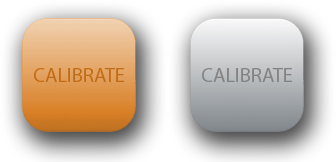
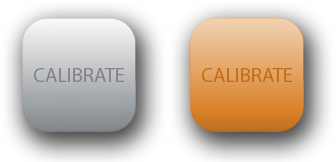
Fixed states with toggle buttons

diff --git a/Manucapture/editor/src/ContentGUI.java b/Manucapture/editor/src/ContentGUI.java
@@ -32,9 +32,7 @@ public class ContentGUI {
 	PImage zoomImg = null;
 	float rightImageScale = 1.0f;
 	float leftImageScale = 1.0f;
-	
-	// TODO: calculate base zoom for Canon 5DSR
-	float baseZoom = 2f; // For Canon 700D 5200/1000
+	float baseZoom = 2f; 
 	
 	public ContentGUI(ManuCapture_v1_1 context){
 		this.context = context;
@@ -294,7 +292,7 @@ public class ContentGUI {
 				context.rect(0, 0, wImageViewerSize, hImageViewerSize);
 				context.fill(255);
 				context.textSize(24);
-				context.text(msg, wImageViewerSize / 2, 50);
+				context.text(msg, wImageViewerSize / 2, 150);
 				context.popMatrix();
 				context.popStyle();
 			} else if (context.chartStateMachine == 3) {
@@ -315,11 +313,9 @@ public class ContentGUI {
 				context.rect(0, imageMarginTop, wImageViewerSize * 2 + 100, hImageViewerSize);
 				context.textSize(24);
 				context.textAlign(context.CENTER);
-				context.fill(255, 255, 0);
-				String cad = context.msg("sw.calibration2");
-				context.text(cad, wImageViewerSize / 2 - 1, 200 - 1);
 				context.fill(255);
-				context.text(cad, wImageViewerSize / 2, 200);
+				String cad = context.msg("sw.calibration2");
+				context.text(cad, wImageViewerSize / 2 + leftImageMarginLeft, 150);
 				context.popMatrix();
 				context.popStyle();
 			}
@@ -396,7 +392,13 @@ public class ContentGUI {
 				}
 			}
 		}
-		else {
+		else if(context.chartStateMachine==3){
+			context.shutterMode = context.NORMAL_SHUTTER;
+			context.setCaptureState(context.CAMERAS_IDLE);
+			context.chartStateMachine = 0;
+			context.gui.btnColorChart.setState(0);
+			noZoom();
+		} else if(context.chartStateMachine==0){
 			if ( context.project != null && context.project.selectedItem != null) {
 				if (context.mouseButton == context.LEFT) {
 					if (context.getStateApp()==context.STATE_APP_PROJECT && lastPressedL == null && context.project.selectedItem.mImageLeft != null

diff --git a/Manucapture/editor/src/ItemsGUI.java b/Manucapture/editor/src/ItemsGUI.java
@@ -127,7 +127,6 @@ public class ItemsGUI {
 		} else {
 			// items
 			if (context.project.thumbnailsLoaded) {
-
 				// TODO: Add transition when adding
 				if (lastDrawedItems != context.project.items.size() && lastDrawedItems != -1
 						&& (context.project.selectedItemIndex != context.project.items.size() - 1)) {
@@ -191,11 +190,9 @@ public class ItemsGUI {
 						}
 
 						if ((i != context.project.selectedItemIndex) || (itemsViewTransition != ADDING_ITEM_TRANSITION)) {
-							if (item.mImageLeft.imgThumb != null) {
+							if (item.mImageLeft.imgThumb != null && item.mImageRight.imgThumb != null) {
 								itemsViewPort.image(item.mImageLeft.imgThumb, marginX,
 										viewPortRelativeHeight);
-							}
-							if (item.mImageRight.imgThumb != null) {
 								itemsViewPort.image(item.mImageRight.imgThumb, marginX + item.mImageLeft.imgThumb.width, viewPortRelativeHeight);
 							}
 							itemsViewPort.noFill();

diff --git a/Manucapture/editor/src/MessageContainer.java b/Manucapture/editor/src/MessageContainer.java
@@ -16,9 +16,9 @@ public class MessageContainer {
 		content.put("sw.nocamera", "The cameras was not detected, please connect, turn on and restart de application");
 		content.put("sw.liveviewenable", "LIVEVIEW MODE ENABLED");
 
-		content.put("sw.calibration1", "CAPTURING CHART COLOR\n PLEASE OPEN THE MANUSCRIPT AT THE END,\n AND PUT THE CHART COLOR IN THIS SIDE");
-		content.put("sw.calibration2", "DRAG POINTS TO COVER ALL DE MANUSCRIPT, AND PRESS BUTTON NORMAL");
-		content.put("sw.calibration3", "CAPTURING CHART COLOR\n PLEASE OPEN THE MANUSCRIPT AT THE START,\n AND PUT THE CHART COLOR IN THIS SIDE");
+		content.put("sw.calibration1", "PUT THE COLOR CHART IN THIS SIDE");
+		content.put("sw.calibration2", "CALIBRATION DONE, CLICK THE MOUSE TO CONTINUE");
+		content.put("sw.calibration3", "PUT THE CHART COLOR IN THIS SIDE");
 
 		content.put("sw.errorloadingproject", "Can't load project");
 

diff --git a/Manucapture/editor/src/ManuCapture_v1_1.java b/Manucapture/editor/src/ManuCapture_v1_1.java
@@ -291,6 +291,7 @@ public class ManuCapture_v1_1 extends PApplet {
 					clearPaths();
 					shutterMode = ManuCapture_v1_1.NORMAL_SHUTTER;
 					chartStateMachine = 0;
+					gui.btnRepeat.setState(0);
 					// TODO Restore gui repeat button to off
 				}
 			} else if (shutterMode == CALIB_SHUTTER) {
@@ -312,12 +313,7 @@ public class ManuCapture_v1_1 extends PApplet {
 					project.replaceItem(project.selectedItemIndex, newItem);
 					clearPaths();
 					chartStateMachine++;
-				} else {
-					shutterMode = NORMAL_SHUTTER;
-					setCaptureState(CAMERAS_IDLE);
-					chartStateMachine = 0;
-					contentGUI.noZoom();
-				}
+				} 
 			}
 		}
 	}

diff --git a/Manucapture/editor/src/GUIController.java b/Manucapture/editor/src/GUIController.java
@@ -84,10 +84,10 @@ public class GUIController {
 	}
 
 	public void calibration_shutter_click(GImageToggleButton source, GEvent event) { 
-		if (source.getState()==1) {
+		if (source == null || source.getState()==1) {
 			PApplet.println("SHUTTER CONTROL SET CALIBRATION MODE");
 			context.shutterMode = ManuCapture_v1_1.CALIB_SHUTTER;
-			context.setCaptureState(ManuCapture_v1_1.STATE_CHART);
+			context.cameraState = ManuCapture_v1_1.STATE_CHART;
 			context.chartStateMachine = 1;
 
 		} else {

diff --git a/Manucapture/editor/src/Project.java b/Manucapture/editor/src/Project.java
@@ -591,8 +591,6 @@ public class Project {
 			newItem.mImageRight.guides = items.get(index).mImageRight.guides;
 			items.remove(index);
 			items.add(index, newItem);
-			selectedItemIndex = PApplet.min(index + 1, items.size());
-			forceSelectedItem(selectedItemIndex, true);
 			saveProjectXML();
 		}
 	}
